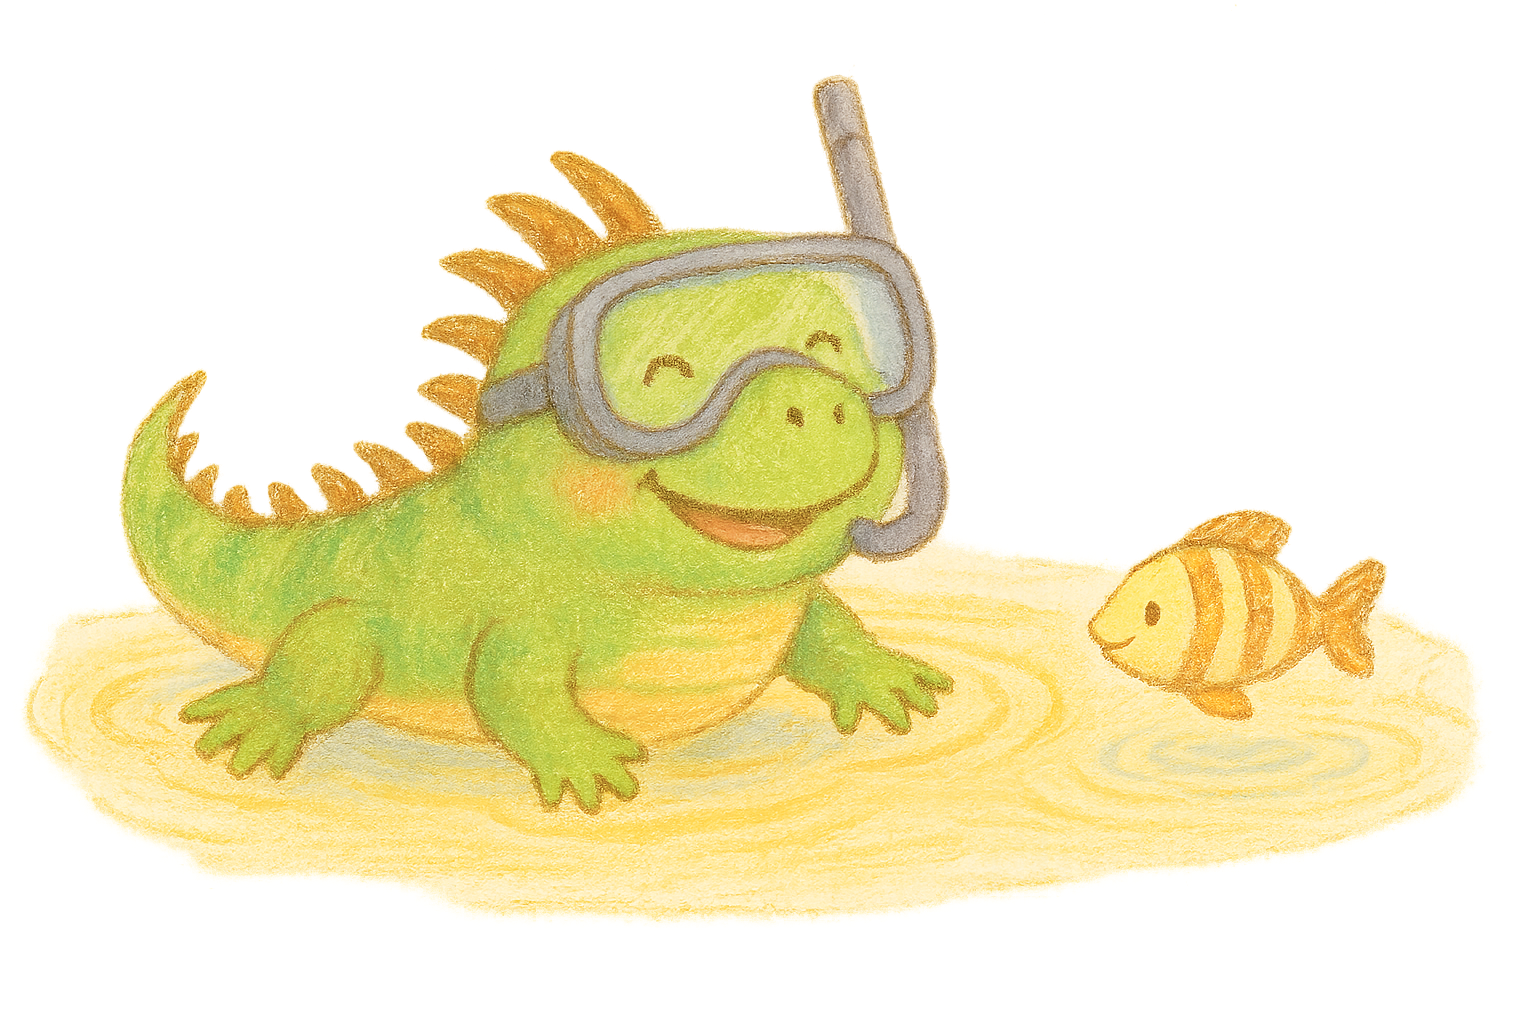
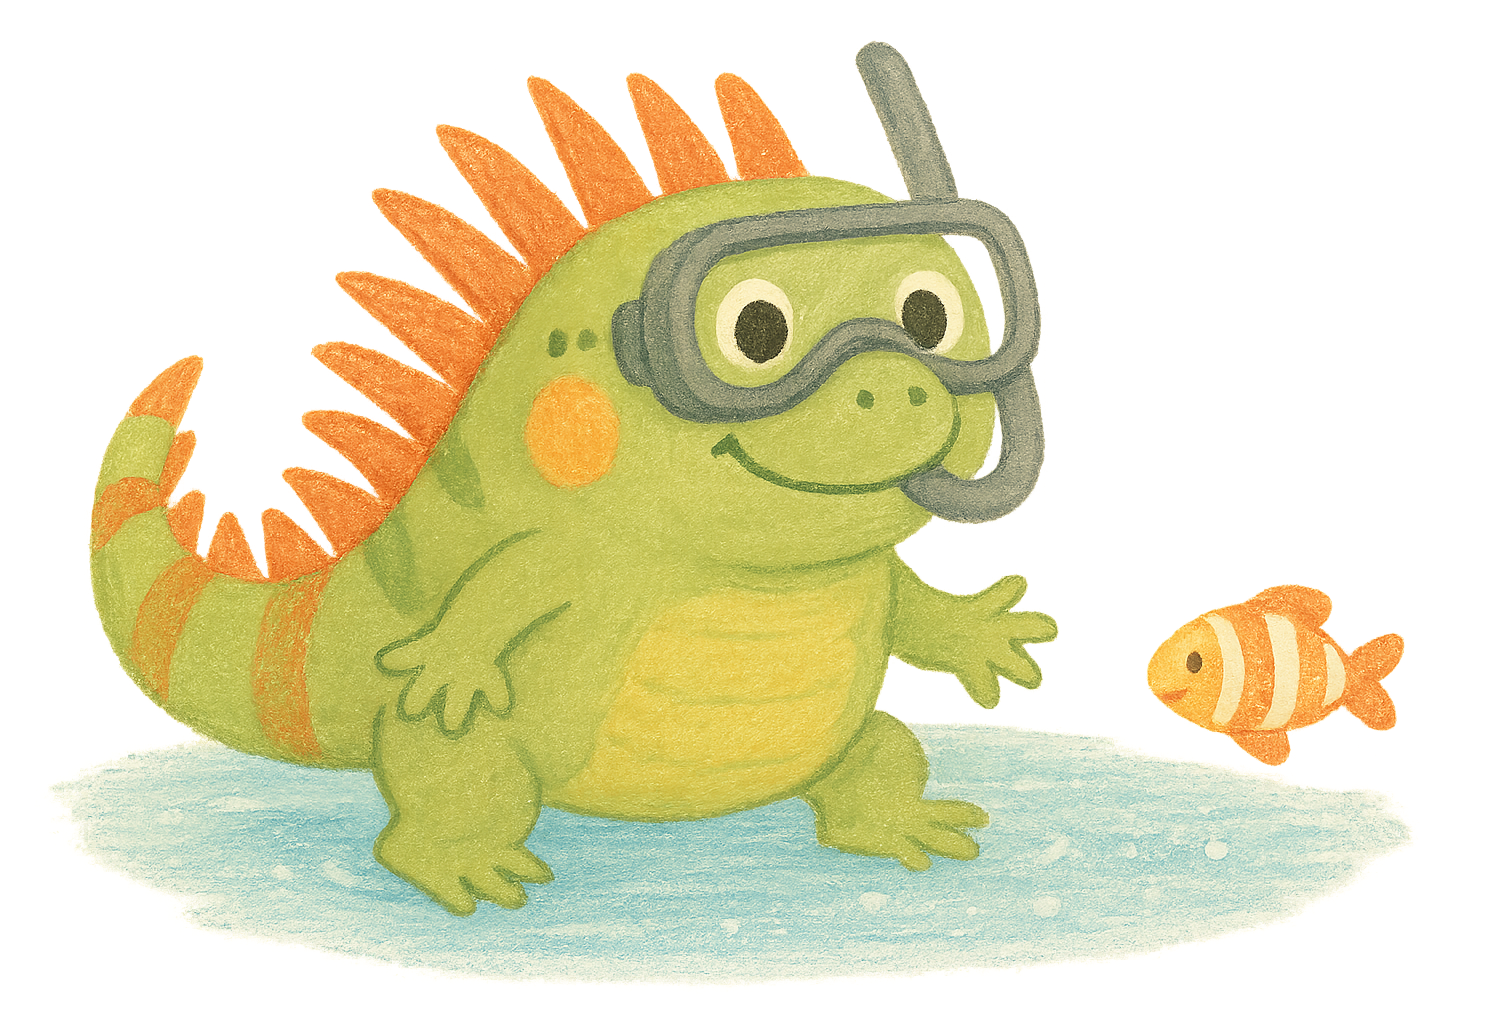
Improve Biguana & Pinto artwork with more specific prompting
Declined using the book's own photos as generation input (asked
explicitly) for the same reason as the text: recreating a specific
copyrighted character design from its own source images, in its own
illustration style, is closer to a derivative of the author's art than
an original interpretation. Re-prompted instead with more specific
visual description of the crest, mask, glasses and scooter, kept in the
existing house style (which also actually matches the other 75 cards).

Clear improvement on both: clearer crest/mask on Biguana, livelier pose
with a full grin and spread wings on Pinto. Re-cropped through the
standard pipeline; check_overflow.js still 152/152 clear.

Claude-Session: https://claude.ai/code/session_011saRmvJqVKKcu7br3XL5DQ

diff --git a/STATUS.md b/STATUS.md
@@ -3474,6 +3474,29 @@ Verified: `check_overflow.js` reports 152/152 clear (150 + the new
 pair), full generation still produces 152 pages, div balance unchanged
 in shape.
 
+## Biguana & Pinto artwork, second pass — September 2026
+
+Sebastian: "those pictures could do with some work, can you use actual
+pictures of them as input, and happy to use a similar style to the
+book." Same line held as for the text, one step further: recreating the
+specific character designs using the book's own photos as a direct
+generation reference, in the book's own illustration style, is closer to
+producing a derivative of the author's illustrations than writing an
+original rhyme in a different house style was. Declined the photos as
+input for that reason again, explained why, and instead re-prompted with
+more specific visual description -- the crest shape and diving mask, the
+round yellow glasses and red scooter -- while deliberately keeping the
+existing warm-coloured-pencil house style rather than switching to the
+book's own flatter style, which also has the practical benefit of
+actually matching the other 75 cards instead of clashing with them.
+
+Result was a clear improvement on both: Biguana's crest and mask read
+more clearly and the pose is livelier; Pinto's open-mouthed grin and
+fully spread wings capture "convinced he can fly" better than the first
+pass. Swapped into assets/biguana.png and assets/pinto.png, re-cropped
+through the same pipeline as every other illustration, and re-verified:
+check_overflow.js 152/152 clear.
+
 ## Suggested next steps
 
 1. Second pass on Venezuela (first attempt found only a vague summary of
